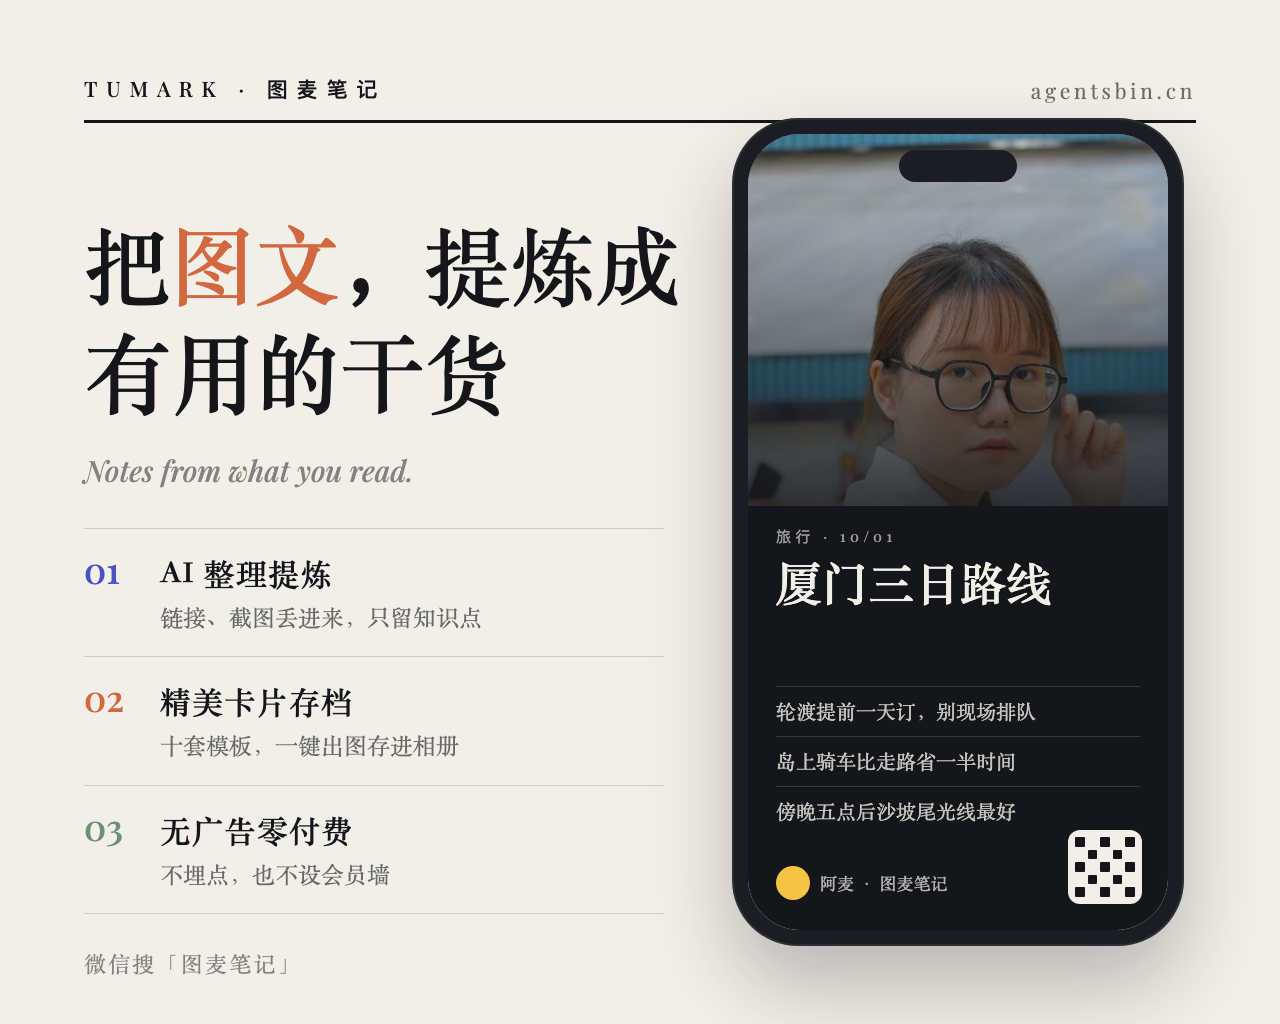
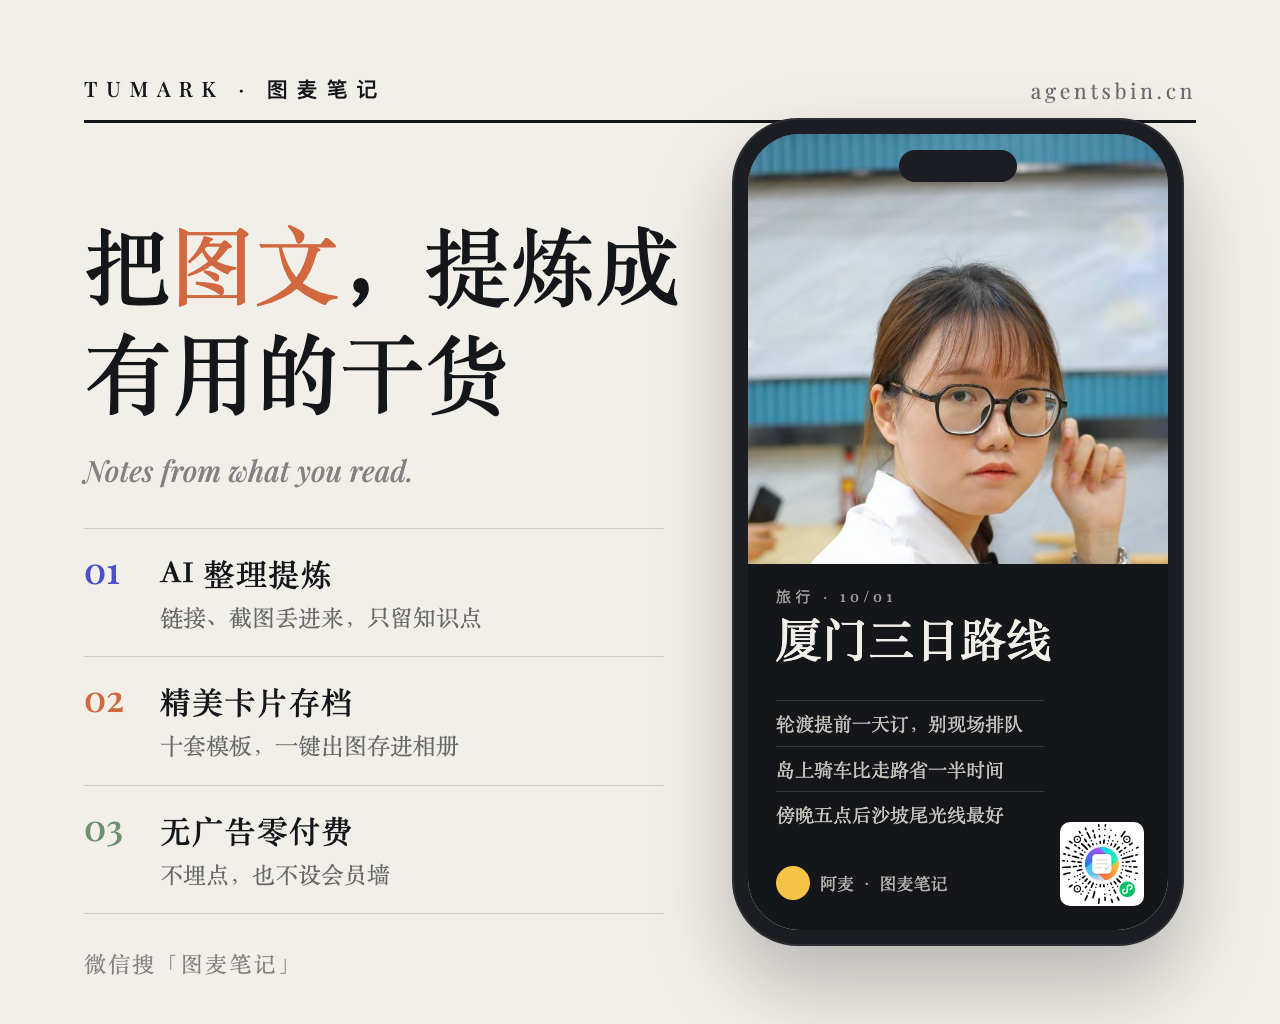
1.9.2：录入面板空态填三步指引，封面换真码 + 照片不压暗 + 暗块下移
指引进 create.wxml 的一个 template，链接档与相册档各引一次，条件是该档还没东西
（!urlInput / !previewImages.length）；直接写那一档不放——它本来就顶满 700rpx 定高。
文案六条进 i18n 中英各一份，"公众号/小红书/微博/知乎"是站长点名要突出的。

踩到一条：<template is> 不继承页面 data，漏了 data="{{t}}" 时数字方块照样画、
三行字整段是空的，而 .guide 节点照样查得到、高度照样 173rpx。所以尺子新加的判据
断的是渲染出来的文字，不是"节点在不在"。验-录入面板沉底-真跑.js 加 4 条后中英两态全绿，
量-面板四态自然高.js 量到 body 最大 590rpx、面板仍 700rpx。

封面：码换成现网真打 getwxacodeunlimit 回的 280×280（scene=sharecard、env=release，
所以它指向线上 1.5.0）；照片底下那道 86% 墨的渐变撤掉，图占 430、文字块上提，
要点行右侧让出 124rpx 给码。压图 q:v 4 是 128,413 字节越线，退到 q:v 5 = 117,090。

Changed region(s): [[0.5625, 0.125, 0.9375, 0.6562], [0.5938, 0.6875, 0.9062, 0.9062]]

diff --git a/docs/design/分享图-重设计/杂志版甲-纸白.html b/docs/design/分享图-重设计/杂志版甲-纸白.html
@@ -52,22 +52,21 @@ body { width: 1280px; height: 1024px; overflow: hidden; }
 
 /* 壳里那张 = 「杂志封面」模板：上图 46% + kicker + 大标题 + 三条要点 + 署名与码 */
 .cover { position: absolute; inset: 0; background: #14161A; color: #F2EFE9; }
-.cover .ph { position: relative; height: 372px; overflow: hidden; }
-.cover .ph img { width: 420px; height: 540px; object-fit: cover; object-position: 50% 16%; }
-.cover .ph::after { content: ''; position: absolute; inset: 0; background: linear-gradient(180deg, rgba(20,22,26,.1), rgba(20,22,26,.86)); }
-.cover .kick { position: absolute; left: 28px; top: 392px; font-family: 'Playfair'; font-size: 15px;
+.cover .ph { position: relative; height: 430px; overflow: hidden; }
+.cover .ph img { width: 420px; height: 685px; object-fit: cover; object-position: 50% 6%; }
+.cover .kick { position: absolute; left: 28px; top: 452px; font-family: 'Playfair'; font-size: 15px;
   letter-spacing: .3em; color: rgba(242,239,233,.62); }
-.cover .ct { position: absolute; left: 28px; right: 28px; top: 420px; font-size: 46px; line-height: 1.22; font-weight: 700; }
-.cover .pt { position: absolute; left: 28px; right: 28px; top: 552px; font-size: 20px; line-height: 1.55;
+.cover .ct { position: absolute; left: 28px; right: 28px; top: 476px; font-size: 46px; line-height: 1.22; font-weight: 700; }
+.cover .pt { position: absolute; left: 28px; right: 124px; top: 566px; font-size: 19px; line-height: 1.5;
   color: rgba(242,239,233,.8); }
-.cover .pt div { padding: 9px 0; border-top: 1px solid rgba(242,239,233,.16); }
+.cover .pt div { padding: 8px 0; border-top: 1px solid rgba(242,239,233,.16); }
 .cover .sign { position: absolute; left: 28px; bottom: 30px; display: flex; align-items: center; gap: 10px;
   font-size: 17px; color: rgba(242,239,233,.72); }
 .cover .sign i { width: 34px; height: 34px; border-radius: 50%; background: #F6C445; display: inline-block; }
-.cover .qr { position: absolute; right: 26px; bottom: 26px; width: 74px; height: 74px; border-radius: 12px;
-  background: #F2EFE9; display: grid; grid-template-columns: repeat(5,1fr); gap: 3px; padding: 7px; }
-.cover .qr b { background: #14161A; border-radius: 1px; }
-.cover .qr b.o { background: transparent; }
+/* 真码：微信 getwxacodeunlimit 回的 280×280（scene=sharecard, page=pages/create/create, env=release），
+   存在 docs/design/分享图-重设计/qr_sharecard.jpg，不是画的格子。 */
+.cover .qr { position: absolute; right: 24px; bottom: 24px; width: 84px; height: 84px; border-radius: 10px; }
+.cover .qr img { width: 84px; height: 84px; border-radius: 10px; display: block; }
 </style>
 </head>
 <body>
@@ -98,7 +97,7 @@ body { width: 1280px; height: 1024px; overflow: hidden; }
       <div class="ct">厦门三日路线</div>
       <div class="pt"><div>轮渡提前一天订，别现场排队</div><div>岛上骑车比走路省一半时间</div><div>傍晚五点后沙坡尾光线最好</div></div>
       <div class="sign"><i></i>阿麦 · 图麦笔记</div>
-      <div class="qr"><b></b><b class="o"></b><b></b><b class="o"></b><b></b><b class="o"></b><b></b><b class="o"></b><b></b><b class="o"></b><b></b><b class="o"></b><b></b><b class="o"></b><b></b><b class="o"></b><b></b><b class="o"></b><b></b><b class="o"></b><b></b><b class="o"></b><b></b><b class="o"></b><b></b></div>
+      <div class="qr"><img src="qr_sharecard.jpg" alt=""></div>
     </div>
   </div></div>
 </div>

diff --git a/docs/工具/验-录入面板沉底-真跑.js b/docs/工具/验-录入面板沉底-真跑.js
@@ -100,6 +100,11 @@ fs.mkdirSync(OUT, { recursive: true })
         block <= win.windowHeight * 0.6,
         `占 ${(block * 100 / win.windowHeight).toFixed(1)}% 屏高`)
 
+      // 三步指引该不该在，取决于"这一档此刻有没有东西要填"：链接档空着→在；
+      // 相册档这里铺了 3 张缩略图、直接写档本来就顶满→都不在。
+      const gNow = await geo('.guide')
+      ck(`${tag}：指引只在空着的那档出现`, (!!gNow) === (active === 'url'), gNow ? '有' : '无')
+
       // 控件没被 flex 压扁、也没被"顺手放大"：这几档高度是令牌定的。
       // 摘要区写的是等于 180 而不是不低于——富余按 CSS 规则全被按钮行的 auto 边距吃掉了，
       // 真哪天它自己长高了，说明有人给 body 加了 flex-grow，这条会当场报出来。
@@ -137,6 +142,26 @@ fs.mkdirSync(OUT, { recursive: true })
         await mp.screenshot({ path: path.join(OUT, `实测-贴底-${label}.png`) })
       }
     }
+
+    /* 相册档空态专测：这一步循环里 shot 一直带着 3 张缩略图（那是最坏情况），
+       指引真正会出现的"一张都没选"那一屏得单独摆出来量。
+       断的是渲染出来的文字——<template is> 不继承页面 data，漏了 data="{{t}}" 时
+       数字方块照样画、三行字全空，只看 .guide 在不在是抓不到这种事的。 */
+    await page.setData({ active: 'shot', mode: 'album', lead: 'album', previewImages: [], errLine: '' })
+    await sleep(320)
+    const gEl = await page.$('.guide')
+    const gTxt = gEl ? (await gEl.text()).replace(/\s+/g, '') : ''
+    const need = [i18n.t('guide1T', lang), i18n.t('guide2T', lang), i18n.t('guide3T', lang),
+      i18n.t('guide3D', lang)].map((x) => String(x).replace(/\s+/g, ''))
+    ck(`${lang} 相册空态：三步指引在，且三行文字真渲染出来了（不只是数字方块）`,
+      !!gEl && need.every((x) => gTxt.indexOf(x) >= 0), `${gEl ? '在' : '不在'}｜${gTxt.slice(0, 20)}`)
+    const g2 = await geo('.guide'); const a2 = await geo('.acts'); const p2 = await geo('.panel')
+    ck(`${lang} 相册空态：指引坐在按钮行上面，两样都还在面板里`,
+      !!g2 && !!a2 && g2.bottom <= a2.top + 1 && a2.bottom <= p2.bottom + 1,
+      `指引底 ${(g2.bottom * 750 / win.windowWidth).toFixed(0)} / 按钮行顶 ${(a2.top * 750 / win.windowWidth).toFixed(0)} / 面板底 ${(p2.bottom * 750 / win.windowWidth).toFixed(0)}rpx`)
+    await page.setData({ previewImages: ['/assets/share-card.jpg'] })
+    await sleep(320)
+    ck(`${lang} 相册选上一张图之后：指引让位，不跟缩略图抢地方`, (await geo('.guide')) === null)
   }
 
   // 收起态：贴底那条规则整个不生效，条子回到流里坐在 62vh 那段留白上。

diff --git a/miniprogram/utils/i18n.js b/miniprogram/utils/i18n.js
@@ -197,6 +197,15 @@ const i18n = {
     pasteEmpty: '剪贴板里还没有链接',
     clear: '清空',
     startExtract: '开始提炼',
+    // 新建页录入面板中间那段空白的三步指引：只在"这一档还没东西"时出现（链接档等 urlInput、
+    // 相册档等 previewImages），一旦选了图/输了链接就让位给内容。直接写那一档不放——它本来就
+    // 顶满面板定高，再塞会把正文框挤扁。渠道那四个名字是站长 10-01 点名要突出的。
+    guide1T: '丢进来',
+    guide1D: '公众号 / 小红书 / 微博 / 知乎的链接或截图',
+    guide2T: 'AI 提炼',
+    guide2D: '图里的字也读得懂，出摘要、要点',
+    guide3T: '存成知识点',
+    guide3D: '能搜、能归类，还能出卡片图',
     busyExtract: '提炼中…',
     busySave: '保存中…',
     linkDesc: '公众号文章 / 网页链接',
@@ -454,6 +463,12 @@ const i18n = {
     pasteEmpty: 'Nothing to paste yet',
     clear: 'Clear',
     startExtract: 'Extract',
+    guide1T: 'Add it',
+    guide1D: 'A link or a screenshot — WeChat, Rednote, Weibo, Zhihu',
+    guide2T: 'AI extracts',
+    guide2D: 'It reads the text inside images too: summary and key points',
+    guide3T: 'Keep it',
+    guide3D: 'Searchable, categorised, exportable as a card',
     busyExtract: 'Extracting…',
     busySave: 'Saving…',
     linkDesc: 'WeChat articles / Web pages',

diff --git a/miniprogram/utils/appInfo.js b/miniprogram/utils/appInfo.js
@@ -2,7 +2,7 @@
  *  以前版本号只写在 pages/about/about.js 里，「我的」这一版要把关于收进本页，
  *  两处各写一份迟早走样（这个号已经踩过三次"上传完才想起来改"），所以挪到这里，
  *  两边都读这一份，`验-关于页版本号.js` 也直接读这里当期望值。 */
-const VERSION = '1.9.1'
+const VERSION = '1.9.2'
 
 // 官网地址以站点自己的 canonical 为准（curl 读到的 <link rel=canonical> 是不带 www 的那个）。
 // 只能复制、点不开：web-view 组件个人主体用不了，小程序里打不开外部网页。
